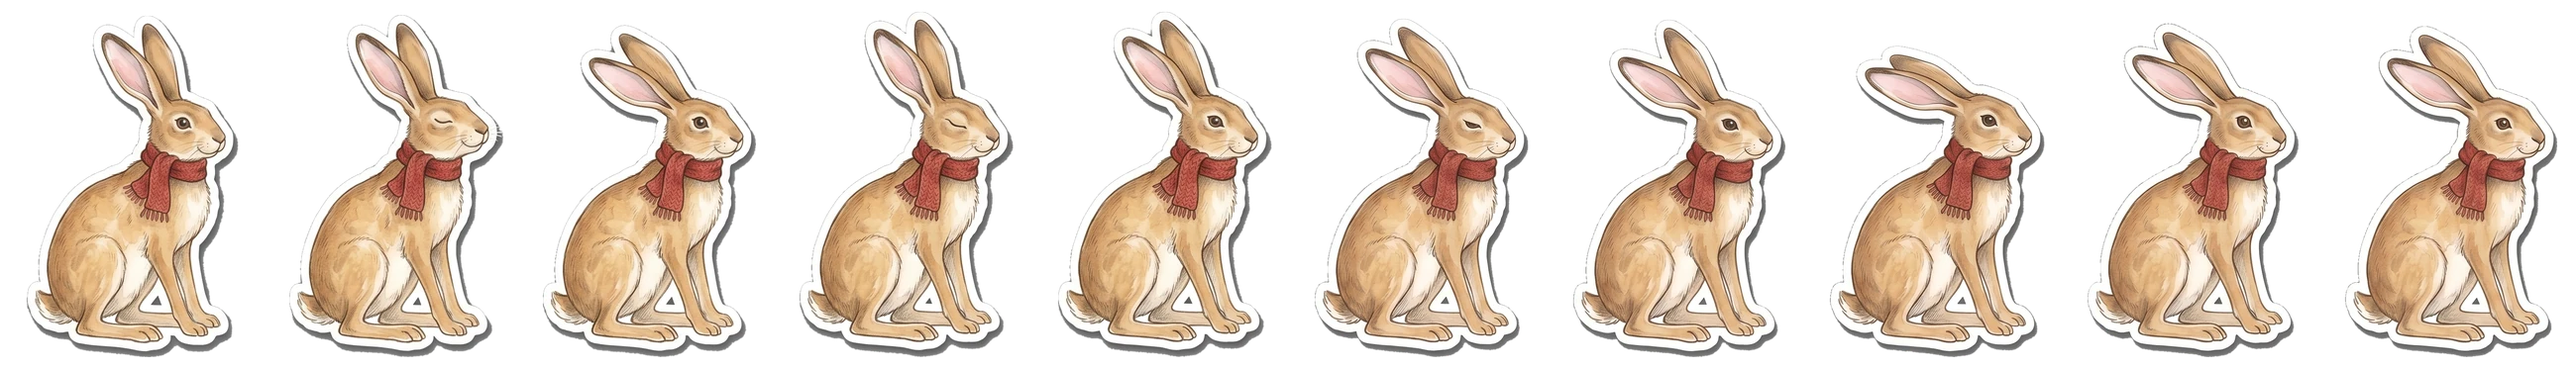
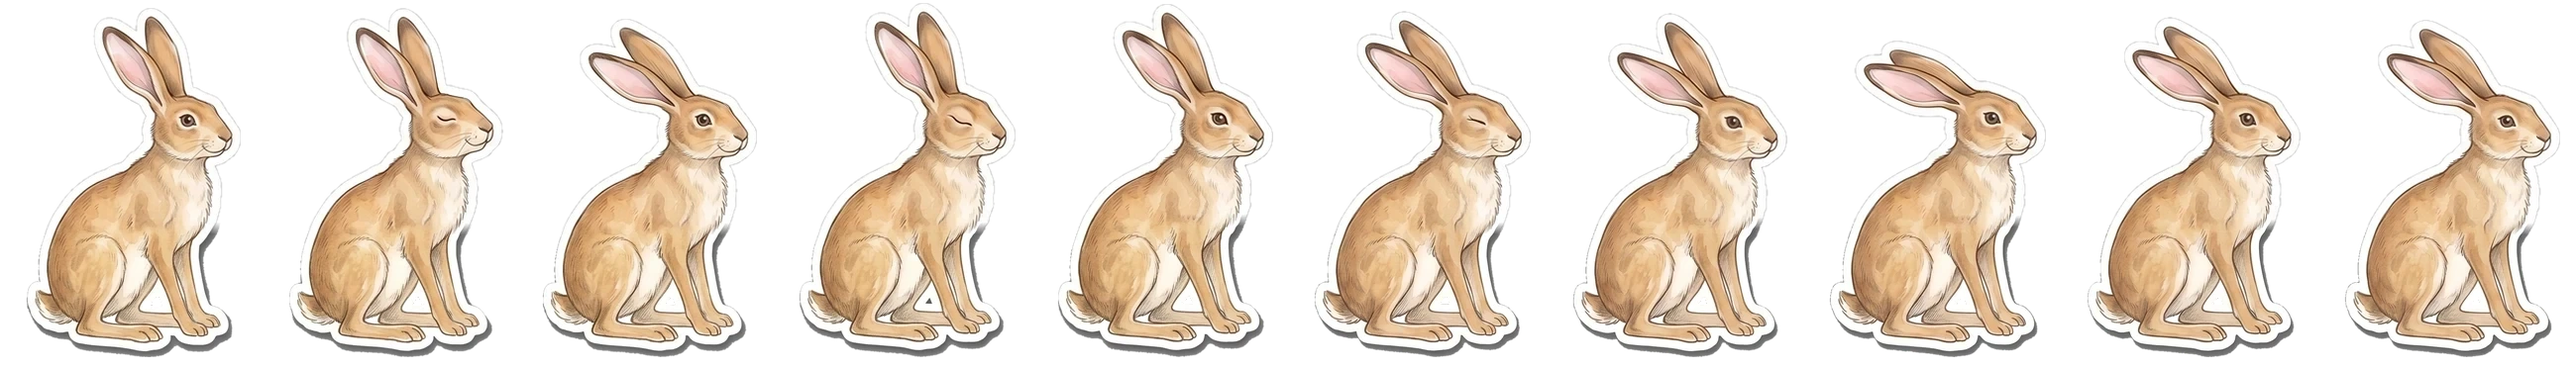
feat(world): repaint Skip without his scarf and make it his first outfit (#222)
Skip's red scarf was painted into his base art, like Bob's bow. His sitting
sticker, idle and hop strips are repainted scarf-free, his five outfits are
repainted on the clean base, and the scarf becomes a neck item with its own
look, idle and hop. Its wardrobe sticker is cut from the scarf look
(Design/friends/wardrobe/scarf.png) and exported with export-wardrobe.py,
which lists it first in Hare's order; its anchor is in
wardrobe-anchors.json.

Starting items are now extra free items rather than the first unlock:
WardrobeLibrary.unlockable(for:) leaves them out, so baskets unlock the
same items in the same order as before and nothing already unlocked is
locked again. A starting item is always unlocked and is worn until
something else is chosen.

Friend.startingLook gives FriendSticker, the intro scene and the TV
reading hare Skip's scarf by default, since those show him without a
saved outfit.

diff --git a/HopTalesPackage/Tests/ContentTests/WardrobeTests.swift b/HopTalesPackage/Tests/ContentTests/WardrobeTests.swift
@@ -10,13 +10,16 @@ struct WardrobeTests {
     }
   }
 
-  @Test func everyFriendWearsFiveOfTheirWardrobeAndBobHisBowToo() {
-    #expect(WardrobeLibrary.all[.hare]?.count == 12)
+  @Test func everyFriendUnlocksFiveOfTheirWardrobeAndBobAndSkipStartWithAnother() {
+    #expect(WardrobeLibrary.all[.hare]?.count == 13)
     #expect(WardrobeLibrary.all[.bunny]?.count == 9)
-    #expect(WardrobeLibrary.items(for: .bunny).count == 6)
-    for friend in Friend.allCases where friend != .bunny {
-      #expect(WardrobeLibrary.items(for: friend).count == 5, "\(friend)")
-      if friend != .hare { #expect(WardrobeLibrary.all[friend]?.count == 8, "\(friend)") }
+    for friend in Friend.allCases {
+      let starts = WardrobeLibrary.starting[friend] != nil
+      #expect(WardrobeLibrary.items(for: friend).count == (starts ? 6 : 5), "\(friend)")
+      #expect(WardrobeLibrary.unlockable(for: friend).count == 5, "\(friend)")
+      if friend != .hare, friend != .bunny {
+        #expect(WardrobeLibrary.all[friend]?.count == 8, "\(friend)")
+      }
     }
   }
 
@@ -24,41 +27,54 @@ struct WardrobeTests {
     var progress = Progress(journey: Journey(starting: .hare))
     #expect(progress.unlockedCount(for: .hare) == 1)
     #expect(progress.unlockedCount(for: .frog) == 0)
+    #expect(progress.newestItem(for: .hare)?.id == "straw")
     progress.baskets[.hare, default: Basket()].filled = 2
     #expect(progress.unlockedCount(for: .hare) == 3)
     #expect(progress.newestItem(for: .hare)?.id == "crown")
   }
 
   @Test func onlyUnlockedItemsCanBeWornAndOneItemPerSlot() throws {
-    var progress = Progress(journey: Journey(starting: .hare))
-    let items = WardrobeLibrary.items(for: .hare)
-    progress.wear(items[1], on: .hare)
-    #expect(progress.outfit(for: .hare).isEmpty)
-    progress.wear(items[0], on: .hare)
-    #expect(progress.outfit(for: .hare) == [items[0]])
-    progress.baskets[.hare, default: Basket()].filled = 1
-    progress.wear(items[1], on: .hare)
-    #expect(progress.outfit(for: .hare) == [items[1]])
-    progress.takeOff(items[1].slot, from: .hare)
-    #expect(progress.outfit(for: .hare).isEmpty)
+    var progress = Progress(journey: Journey(starting: .frog))
+    let items = WardrobeLibrary.items(for: .frog)
+    progress.wear(items[1], on: .frog)
+    #expect(progress.outfit(for: .frog).isEmpty)
+    progress.wear(items[0], on: .frog)
+    #expect(progress.outfit(for: .frog) == [items[0]])
+    progress.baskets[.frog, default: Basket()].filled = 1
+    progress.wear(items[1], on: .frog)
+    #expect(progress.outfit(for: .frog) == [items[1]])
+    progress.takeOff(items[1].slot, from: .frog)
+    #expect(progress.outfit(for: .frog).isEmpty)
   }
 
-  @Test func bobStartsTheJourneyInHisBow() throws {
-    let progress = Progress()
-    let bow = try #require(WardrobeLibrary.items(for: .bunny).first)
-    #expect(bow.id == "bow")
-    #expect(bow.slot == .head)
-    #expect(WardrobeLibrary.startingItem(for: .bunny) == bow)
+  @Test(arguments: [(Friend.bunny, "bow", Slot.head), (.hare, "scarf", .neck)])
+  func startingItemsAreWornUntilSomethingElseIsChosen(
+    friend: Friend, id: String, slot: Slot
+  ) throws {
+    let item = try #require(WardrobeLibrary.startingItem(for: friend))
+    #expect(item.id == id)
+    #expect(item.slot == slot)
+    #expect(WardrobeLibrary.items(for: friend).first == item)
+    #expect(!WardrobeLibrary.unlockable(for: friend).contains(item))
+    let fresh = Progress()
+    #expect(fresh.isUnlocked(item, for: friend))
+    #expect(fresh.outfit(for: friend) == [item])
+    #expect(WardrobeLibrary.startingItem(for: .frog) == nil)
+    #expect(Progress(journey: Journey(starting: .frog)).outfit(for: .frog).isEmpty)
+  }
+
+  @Test func startingItemsLeaveTheUnlockOrderAlone() throws {
+    let bow = try #require(WardrobeLibrary.startingItem(for: .bunny))
+    var progress = Progress()
+    #expect(progress.newestItem(for: .bunny)?.id == "bluebell-crown")
+    #expect(progress.unlockedCount(for: .bunny) == 1)
+    progress.baskets[.bunny, default: Basket()].filled = 1
+    #expect(progress.newestItem(for: .bunny)?.id == "bonnet")
     #expect(progress.isUnlocked(bow, for: .bunny))
-    #expect(progress.outfit(for: .bunny) == [bow])
-    #expect(progress.newestItem(for: .bunny) == bow)
-    #expect(WardrobeLibrary.startingItem(for: .hare) == nil)
-    #expect(Progress(journey: Journey(starting: .hare)).outfit(for: .hare).isEmpty)
   }
 
   @Test func anotherHatReplacesBobsBow() throws {
     var progress = Progress()
-    progress.baskets[.bunny, default: Basket()].filled = 1
     let crown = try #require(WardrobeLibrary.items(for: .bunny).first { $0.id == "bluebell-crown" })
     progress.wear(crown, on: .bunny)
     #expect(progress.outfit(for: .bunny) == [crown])
@@ -66,16 +82,24 @@ struct WardrobeTests {
     #expect(progress.outfit(for: .bunny).isEmpty)
   }
 
-  @Test func takingOffBobsBowLeavesHimBare() {
-    var bowOff = Progress()
-    bowOff.takeOff(.head, from: .bunny)
-    #expect(bowOff.outfits[.bunny] == [:])
-    #expect(bowOff.outfit(for: .bunny).isEmpty)
+  @Test func anythingElseReplacesSkipsScarf() throws {
+    var progress = Progress(journey: Journey(starting: .hare))
+    let straw = try #require(WardrobeLibrary.items(for: .hare).first { $0.id == "straw" })
+    progress.wear(straw, on: .hare)
+    #expect(progress.outfit(for: .hare) == [straw])
+  }
+
+  @Test(arguments: [(Friend.bunny, Slot.head), (.hare, .neck)])
+  func takingOffAStartingItemLeavesThemBare(friend: Friend, slot: Slot) {
+    var itemOff = Progress()
+    itemOff.takeOff(slot, from: friend)
+    #expect(itemOff.outfits[friend] == [:])
+    #expect(itemOff.outfit(for: friend).isEmpty)
 
     var justMe = Progress()
-    justMe.undress(.bunny)
-    #expect(justMe.outfits[.bunny] == [:])
-    #expect(justMe.outfit(for: .bunny).isEmpty)
+    justMe.undress(friend)
+    #expect(justMe.outfits[friend] == [:])
+    #expect(justMe.outfit(for: friend).isEmpty)
   }
 
   @Test func aFriendWearsOneLookAtATime() throws {
@@ -91,7 +115,7 @@ struct WardrobeTests {
 
   @Test func aFullBasketNamesTheItemItUnlocks() {
     let moment = JourneyMoment.basketFull(.bunny, number: 1)
-    #expect(moment.unlockedItem?.id == "bluebell-crown")
+    #expect(moment.unlockedItem?.id == "bonnet")
   }
 
   @Test func pairedItemsHaveTwoParts() throws {

diff --git a/HopTalesPackage/Tests/AppFeatureTests/WardrobeTests.swift b/HopTalesPackage/Tests/AppFeatureTests/WardrobeTests.swift
@@ -11,58 +11,53 @@ struct WardrobeFeatureTests {
   nonisolated private static var progress: Content.Progress {
     var basket = Basket()
     basket.filled = 4
-    return Content.Progress(journey: Journey(starting: .hare), baskets: [.hare: basket])
+    return Content.Progress(journey: Journey(starting: .frog), baskets: [.frog: basket])
   }
 
   @Test func everyItemIsInOneGridAndTappingSwapsTheLook() async {
     let saved = LockIsolated(Self.progress)
-    let store = TestStore(initialState: Wardrobe.State(friend: .hare)) {
+    let store = TestStore(initialState: Wardrobe.State(friend: .frog)) {
       Wardrobe()
         .dependency(ProgressStore(load: { saved.value }, save: { saved.setValue($0) }))
     } changes: {
       $0.progress = Self.progress
     }
-    let items = WardrobeLibrary.items(for: .hare)
+    let items = WardrobeLibrary.items(for: .frog)
     #expect(store.state.items == items)
 
     store.send(.itemTapped(items[0])) {
-      $0.progress.outfits[.hare] = [items[0].slot: items[0].id]
+      $0.progress.outfits[.frog] = [items[0].slot: items[0].id]
     }
     store.send(.itemTapped(items[1])) {
-      $0.progress.outfits[.hare] = [items[1].slot: items[1].id]
+      $0.progress.outfits[.frog] = [items[1].slot: items[1].id]
     }
-    #expect(saved.value.outfit(for: .hare) == [items[1]])
+    #expect(saved.value.outfit(for: .frog) == [items[1]])
     await store.dismount()
   }
 
   @Test func tappingTheWornItemOrJustMeTakesTheLookOff() async {
     let saved = LockIsolated(Self.progress)
-    let store = TestStore(initialState: Wardrobe.State(friend: .hare)) {
+    let store = TestStore(initialState: Wardrobe.State(friend: .frog)) {
       Wardrobe()
         .dependency(ProgressStore(load: { saved.value }, save: { saved.setValue($0) }))
     } changes: {
       $0.progress = Self.progress
     }
-    let item = WardrobeLibrary.items(for: .hare)[0]
+    let item = WardrobeLibrary.items(for: .frog)[0]
 
-    store.send(.itemTapped(item)) { $0.progress.outfits[.hare] = [item.slot: item.id] }
-    store.send(.itemTapped(item)) { $0.progress.outfits[.hare] = [:] }
-    store.send(.itemTapped(item)) { $0.progress.outfits[.hare] = [item.slot: item.id] }
-    store.send(.justMeTapped) { $0.progress.outfits[.hare] = [:] }
-    #expect(saved.value.outfit(for: .hare).isEmpty)
+    store.send(.itemTapped(item)) { $0.progress.outfits[.frog] = [item.slot: item.id] }
+    store.send(.itemTapped(item)) { $0.progress.outfits[.frog] = [:] }
+    store.send(.itemTapped(item)) { $0.progress.outfits[.frog] = [item.slot: item.id] }
+    store.send(.justMeTapped) { $0.progress.outfits[.frog] = [:] }
+    #expect(saved.value.outfit(for: .frog).isEmpty)
     await store.dismount()
   }
 
   @Test func bobWearsHisBowUntilSomethingElseIsChosen() async throws {
-    var basket = Basket()
-    basket.filled = 1
-    let fresh = Content.Progress(baskets: [.bunny: basket])
-    let saved = LockIsolated(fresh)
+    let saved = LockIsolated(Content.Progress())
     let store = TestStore(initialState: Wardrobe.State(friend: .bunny)) {
       Wardrobe()
         .dependency(ProgressStore(load: { saved.value }, save: { saved.setValue($0) }))
-    } changes: {
-      $0.progress = fresh
     }
     let items = WardrobeLibrary.items(for: .bunny)
     let bow = try #require(items.first { $0.id == "bow" })
@@ -88,6 +83,27 @@ struct WardrobeFeatureTests {
     store.send(.justMeTapped) { $0.progress.outfits[.bunny] = [:] }
     #expect(store.state.outfit.isEmpty)
     #expect(saved.value.outfit(for: .bunny).isEmpty)
+    await store.dismount()
+  }
+
+  @Test func skipWearsHisScarfUntilSomethingElseIsChosen() async throws {
+    let fresh = Content.Progress(journey: Journey(starting: .hare))
+    let saved = LockIsolated(fresh)
+    let store = TestStore(initialState: Wardrobe.State(friend: .hare)) {
+      Wardrobe()
+        .dependency(ProgressStore(load: { saved.value }, save: { saved.setValue($0) }))
+    } changes: {
+      $0.progress = fresh
+    }
+    let items = WardrobeLibrary.items(for: .hare)
+    let scarf = try #require(items.first { $0.id == "scarf" })
+    let straw = try #require(items.first { $0.id == "straw" })
+    #expect(store.state.outfit == [scarf])
+
+    store.send(.itemTapped(straw)) { $0.progress.outfits[.hare] = [.head: straw.id] }
+    #expect(saved.value.outfit(for: .hare) == [straw])
+    store.send(.justMeTapped) { $0.progress.outfits[.hare] = [:] }
+    #expect(saved.value.outfit(for: .hare).isEmpty)
     await store.dismount()
   }
 }

diff --git a/HopTalesPackage/Sources/Content/Wardrobe.swift b/HopTalesPackage/Sources/Content/Wardrobe.swift
@@ -57,7 +57,7 @@ public enum WardrobeLibrary {
   }()
 
   public static let wearable: [Friend: [String]] = [
-    .hare: ["straw", "bowtie", "crown", "specs", "satchel"],
+    .hare: ["scarf", "straw", "bowtie", "crown", "specs", "satchel"],
     .bunny: ["bow", "bluebell-crown", "bonnet", "heart-glasses", "daisy-chain", "basket-pack"],
     .frog: ["lilypad-hat", "goggles", "check-bowtie", "reed-satchel", "raincoat"],
     .crow: ["flat-cap", "top-hat", "aviator-goggles", "autumn-scarf", "post-satchel"],
@@ -68,7 +68,7 @@ public enum WardrobeLibrary {
     ]
   ]
 
-  public static let starting: [Friend: String] = [.bunny: "bow"]
+  public static let starting: [Friend: String] = [.bunny: "bow", .hare: "scarf"]
 
   @TaskLocal public static var painted: [Friend: Set<String>] = {
     guard
@@ -95,23 +95,30 @@ public enum WardrobeLibrary {
   public static func startingItem(for friend: Friend) -> WardrobeItem? {
     starting[friend].flatMap { id in items(for: friend).first { $0.id == id } }
   }
+
+  public static func unlockable(for friend: Friend) -> [WardrobeItem] {
+    items(for: friend).filter { $0.id != starting[friend] }
+  }
 }
 
 extension Progress {
   public func unlockedCount(for friend: Friend) -> Int {
     guard journey.met.contains(friend) else { return 0 }
-    let items = WardrobeLibrary.items(for: friend).count
+    let items = WardrobeLibrary.unlockable(for: friend).count
     return min(1 + (baskets[friend]?.filled ?? 0), items)
   }
 
   public func isUnlocked(_ item: WardrobeItem, for friend: Friend) -> Bool {
-    guard let index = WardrobeLibrary.items(for: friend).firstIndex(of: item) else { return false }
+    if item == WardrobeLibrary.startingItem(for: friend) { return true }
+    guard let index = WardrobeLibrary.unlockable(for: friend).firstIndex(of: item) else {
+      return false
+    }
     return index < unlockedCount(for: friend)
   }
 
   public func newestItem(for friend: Friend) -> WardrobeItem? {
     let count = unlockedCount(for: friend)
-    return count > 0 ? WardrobeLibrary.items(for: friend)[count - 1] : nil
+    return count > 0 ? WardrobeLibrary.unlockable(for: friend)[count - 1] : nil
   }
 
   public func outfit(for friend: Friend) -> [WardrobeItem] {
@@ -146,7 +153,7 @@ extension Progress {
 extension JourneyMoment {
   public var unlockedItem: WardrobeItem? {
     guard case let .basketFull(friend, number) = self else { return nil }
-    let items = WardrobeLibrary.items(for: friend)
+    let items = WardrobeLibrary.unlockable(for: friend)
     return number < items.count ? items[number] : nil
   }
 }

diff --git a/HopTalesPackage/Sources/World/IntroScene.swift b/HopTalesPackage/Sources/World/IntroScene.swift
@@ -1,3 +1,4 @@
+import Content
 import CoreImage
 import SpriteKit
 
@@ -77,7 +78,7 @@ public final class IntroScene: SKScene {
   let land = SKEffectNode()
   let layers = MeadowLayer.allCases.map { TiledLayer($0) }
   let hareFront = SKSpriteNode(texture: MeadowArt.texture("hare-front-sit"))
-  let hareSide = SKSpriteNode(texture: MeadowArt.texture("hare-sit"))
+  let hareSide = SKSpriteNode(texture: MeadowArt.texture(Friend.hare.startingLook ?? "hare-sit"))
   let hareRun = SKSpriteNode()
   let launch: SKSpriteNode?
   private let hopTextures: [SKTexture]
@@ -86,7 +87,7 @@ public final class IntroScene: SKScene {
   private var layout = IntroLayout(meadow: MeadowLayout(size: .zero))
 
   public init(size: CGSize, launchImage: UIImage? = nil) {
-    let sheet = MeadowArt.texture("hare-hop")
+    let sheet = MeadowArt.texture(Friend.hare.startingLook.map { "\($0)-hop" } ?? "hare-hop")
     let frames = IntroLayout.hopFrames
     hopTextures = (0..<frames).map { index in
       let width = 1 / CGFloat(frames)

diff --git a/HopTalesPackage/Sources/World/HareArt.swift b/HopTalesPackage/Sources/World/HareArt.swift
@@ -230,8 +230,8 @@ public struct FriendSticker: View {
 
   private var art: UIImage? {
     let base = friend == .hare ? "hare-sit" : "friend-\(friend.rawValue)"
-    guard !isBare, let item = WardrobeLibrary.starting[friend] else { return MeadowArt.image(base) }
-    return MeadowArt.image("look-\(friend.rawValue)-\(item)") ?? MeadowArt.image(base)
+    guard !isBare, let look = friend.startingLook else { return MeadowArt.image(base) }
+    return MeadowArt.image(look) ?? MeadowArt.image(base)
   }
 
   public var body: some View {
@@ -281,5 +281,11 @@ public struct Sticker: View {
         .frame(width: image.size.width * scale, height: image.size.height * scale)
         .accessibilityHidden(true)
     }
+  }
+}
+
+extension Friend {
+  public var startingLook: String? {
+    WardrobeLibrary.starting[self].map { "look-\(rawValue)-\($0)" }
   }
 }

diff --git a/HopTalesPackage/Tests/AppFeatureTests/RootTests.swift b/HopTalesPackage/Tests/AppFeatureTests/RootTests.swift
@@ -68,7 +68,7 @@ struct RootTests {
     let friend = story.friend
     store.send(.home(.storyTapped(story))) {
       $0.path = [.reading(Reading.State.DebugSnapshot(
-        bigWords: big, friend: friend, treat: treat, story: story
+        bigWords: big, friend: friend, look: "scarf", treat: treat, story: story
       ))]
     }
     #expect(store.state.storyOnScreen == story)
@@ -77,7 +77,8 @@ struct RootTests {
       $0.path = [
         .reading(
           Reading.State.DebugSnapshot(
-            authorization: .authorized, bigWords: big, friend: friend, treat: treat, story: story
+            authorization: .authorized, bigWords: big, friend: friend, look: "scarf", treat: treat,
+            story: story
           )
         )
       ]

diff --git a/HopTalesPackage/Sources/Reading/Hare.swift b/HopTalesPackage/Sources/Reading/Hare.swift
@@ -74,7 +74,10 @@ struct Hare: View {
         )
         .opacity(airborne ? 0.45 : 1)
         .position(x: centre, y: 0)
-      HareSprite(pose.frame, height: Self.size(Self.height, on: geometry))
+      HareSprite(
+        HareFrame(pose.frame.sheet, pose.frame.index, look: WardrobeLibrary.starting[.hare]),
+        height: Self.size(Self.height, on: geometry)
+      )
         .scaleEffect(x: pose.scaleX, y: pose.scaleY, anchor: .center)
         .position(x: centre, y: -Self.size(pose.lift, on: geometry))
     }

diff --git a/HopTalesPackage/Sources/Home/WardrobeScreen.swift b/HopTalesPackage/Sources/Home/WardrobeScreen.swift
@@ -26,7 +26,7 @@ import World
     func isWorn(_ item: WardrobeItem) -> Bool { outfit.contains(item) }
 
     func basket(for item: WardrobeItem) -> Int {
-      WardrobeLibrary.items(for: friend).firstIndex(of: item) ?? 0
+      WardrobeLibrary.unlockable(for: friend).firstIndex(of: item) ?? 0
     }
   }
 

diff --git a/scripts/export-wardrobe.py b/scripts/export-wardrobe.py
@@ -23,7 +23,8 @@ WORLD = ROOT / "HopTalesPackage/Sources/World/Resources"
 CONTENT = ROOT / "HopTalesPackage/Sources/Content/Resources"
 
 HARE = [
-    ("straw", "Straw hat"), ("bowtie", "Bow tie"), ("neckerchief", "Spotty neckerchief"),
+    ("scarf", "Red scarf"), ("straw", "Straw hat"), ("bowtie", "Bow tie"),
+    ("neckerchief", "Spotty neckerchief"),
     ("crown", "Flower crown"), ("satchel", "Satchel"), ("bobble", "Bobble hat"),
     ("specs", "Round glasses"), ("pirate", "Pirate hat"), ("wizard", "Wizard hat"),
     ("acorn", "Acorn cap"), ("cape", "Cape"), ("paper-crown", "Paper crown"),
